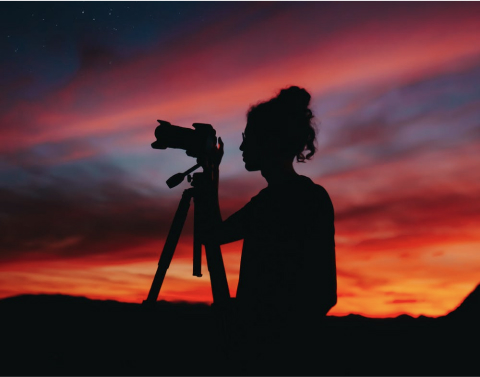
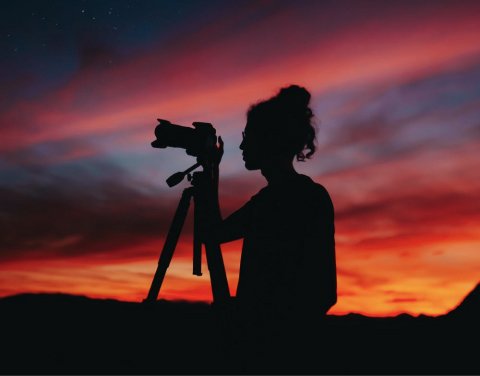
Add tablet image view to pricing hero and update styling for tablet.

diff --git a/src/components/hero/hero.module.css b/src/components/hero/hero.module.css
@@ -8,6 +8,10 @@
     height: auto;
 }
 
+.hero > img:not(:first-of-type) {
+    display: none;
+}
+
 .hero div {
     position: relative;
     padding-block: 72px;
@@ -32,4 +36,38 @@
 
 .hero div > button {
     margin-top: 23px;
+}
+
+@media screen and (min-width: 481px) {
+    .hero div {
+        display: flex;
+        flex-direction: column;
+        justify-content: center;
+        height: 490px;
+        padding-inline: 54px;
+    }
+
+    .hero div::after {
+        top: 50%;
+        left: 0;
+        transform: translateY(-50%);
+        height: 144px;
+        width: 6px;
+    }
+
+    .hero > img:nth-of-type(2) {
+        display: block;
+    }
+
+    .hero > img:not(:nth-of-type(2)) {
+        display: none;
+    }
+
+    .hero > img {
+        float: right;
+        height: 490px;
+        width: 30%;
+        max-width: 301px;
+        object-fit: cover;
+    }
 }

diff --git a/src/routes/pricing/Pricing.tsx b/src/routes/pricing/Pricing.tsx
@@ -1,5 +1,6 @@
 import Hero from "../../components/hero/Hero"
-import PricingHero from '../../assets/mobile-images/pricing.jpg'
+import PricingMobile from '../../assets/mobile-images/pricing.jpg'
+import PricingTablet from '../../assets/tablet-images/pricing.jpg'
 import InviteLink from "../../components/inviteLink/InviteLink"
 import styles from './pricing.module.css'
 import PricingCard from "../../components/pricingCard/PricingCard"
@@ -15,7 +16,12 @@ export default function Pricing() {
             <Hero>
 
                 <img
-                    src={PricingHero}
+                    src={PricingMobile}
+                    alt="Pricing"
+                />
+
+                <img
+                    src={PricingTablet}
                     alt="Pricing"
                 />
 
